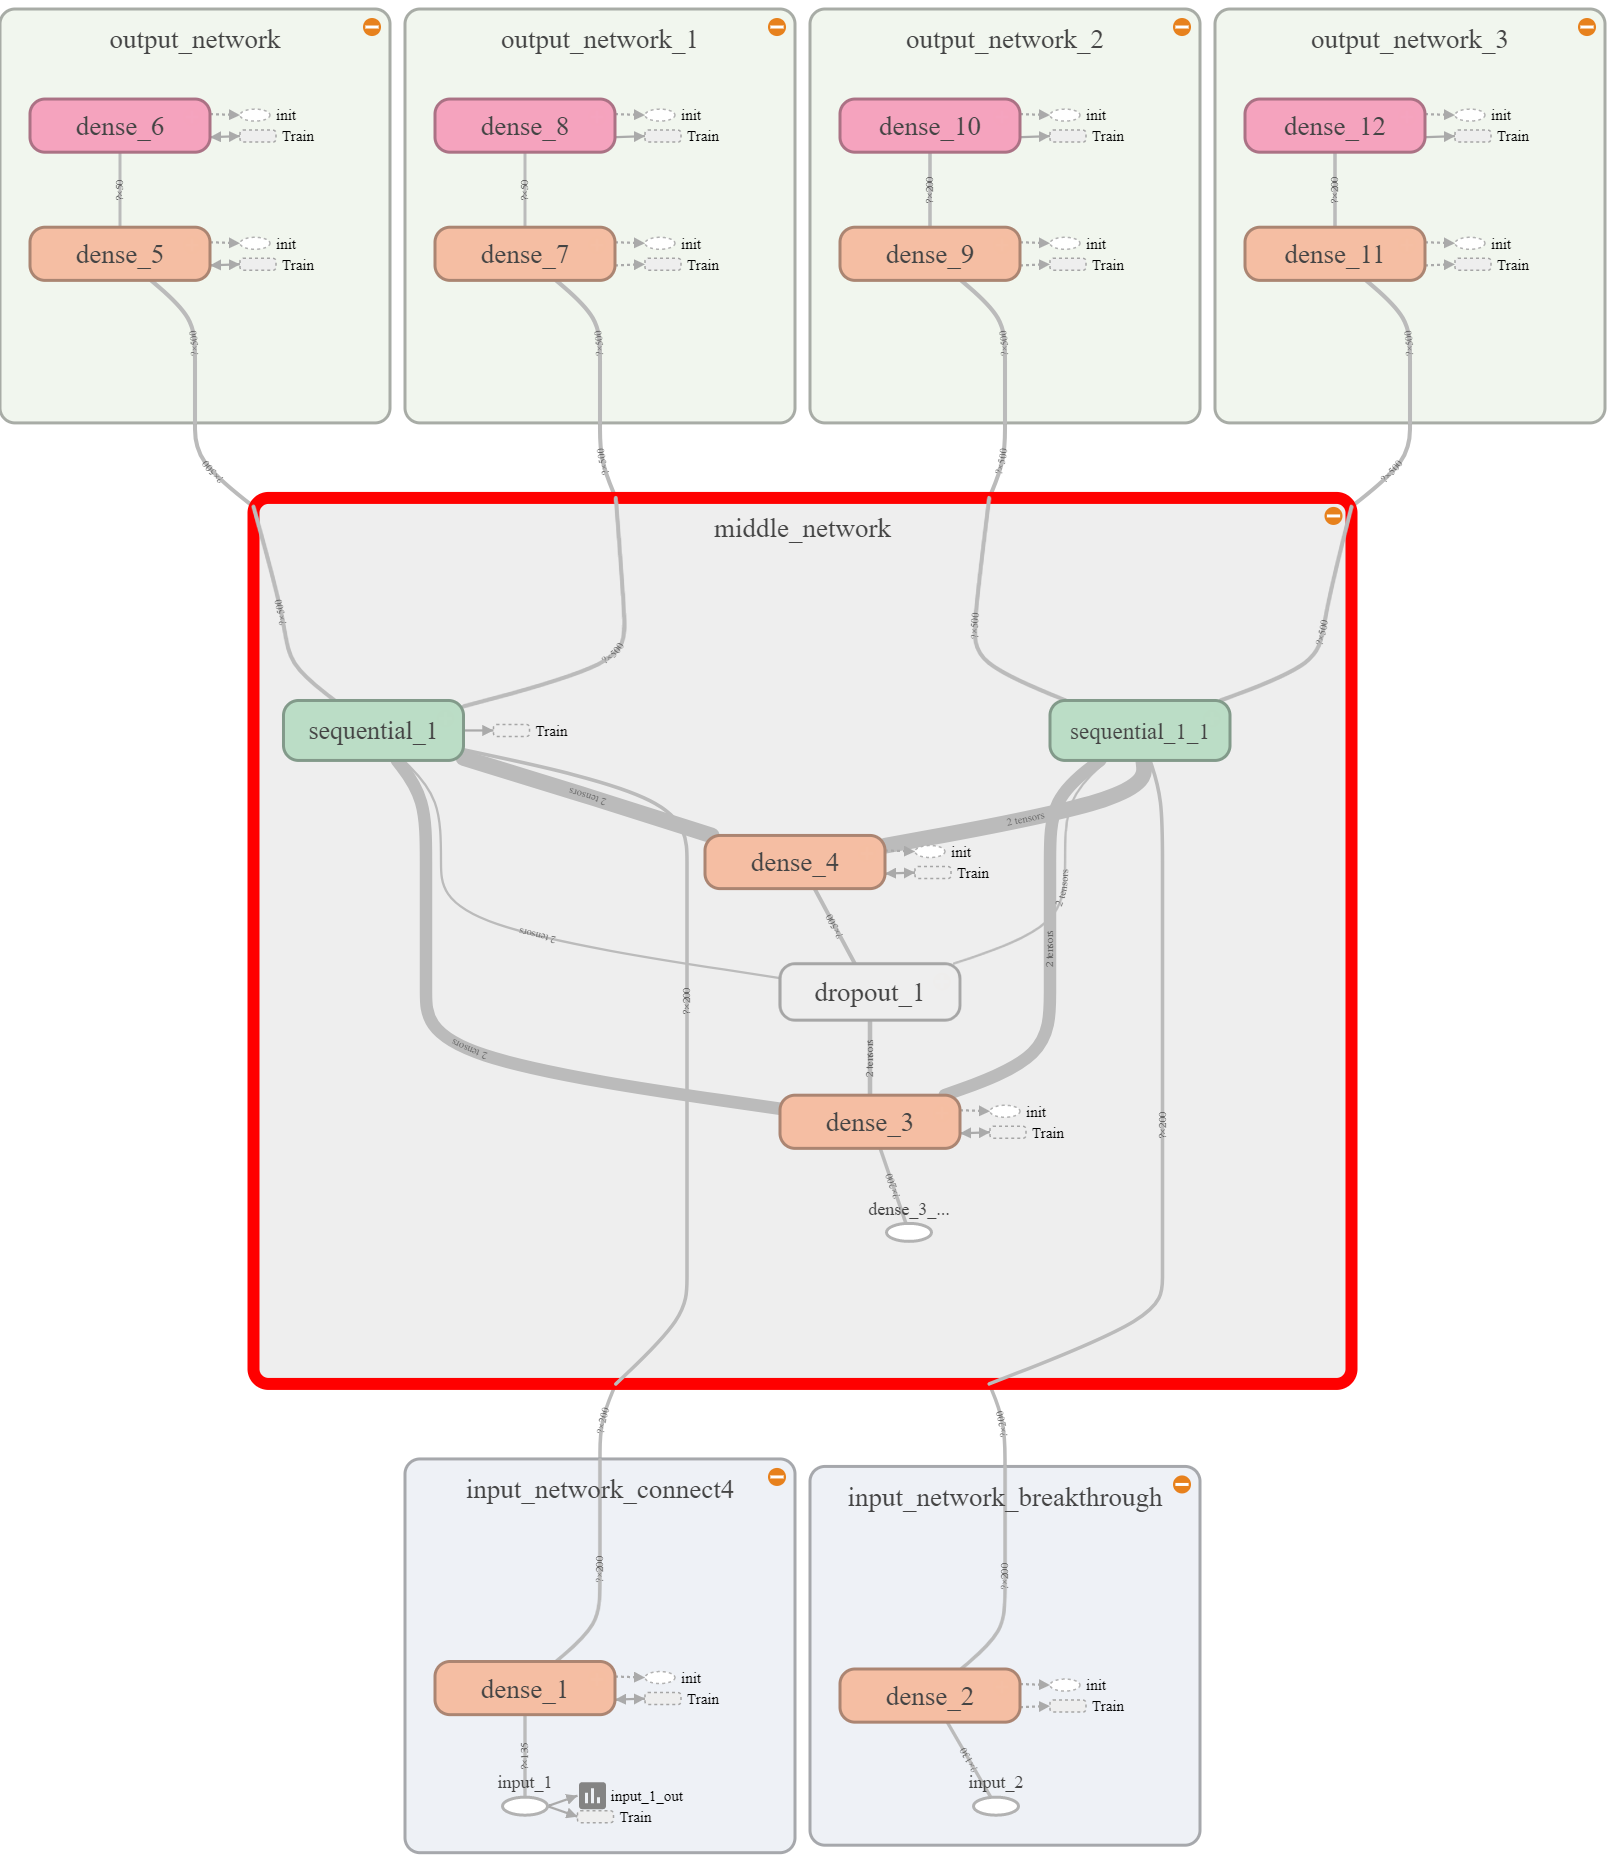
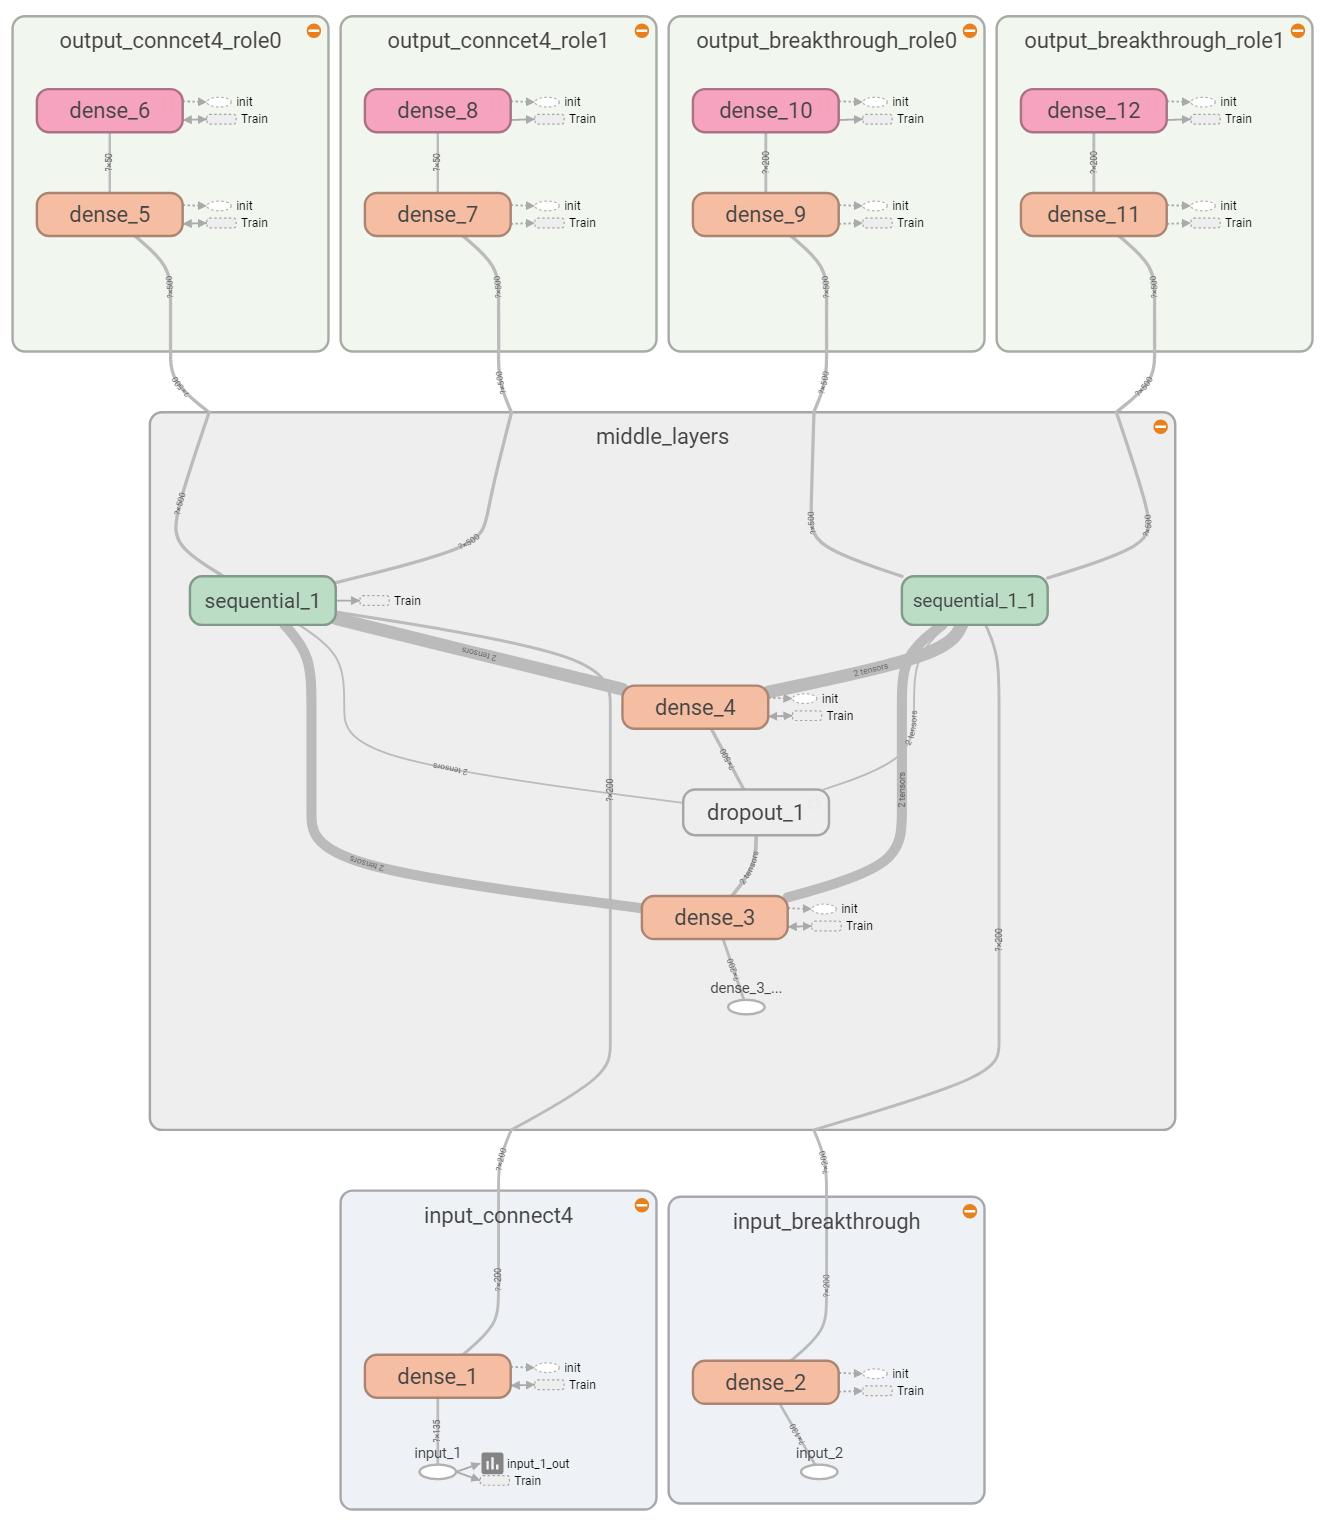
Improved the readabilty of tensorboard graph output

Changed region(s): [[0.0, 0.0, 1.0, 1.0]]

diff --git a/multygame.py b/multygame.py
@@ -43,47 +43,47 @@ def read_data(file_name, state_size, num_actions):
 #                           Create Model                             
 # -------------------------------------------------------------------
 
-with tf.name_scope("input_network_connect4"):
+with tf.name_scope("input_connect4"):
     in_con4 = Input(shape=(135,))
     con4 = Dense(200, activation='relu')(in_con4)
-    
-#with tf.name_scope("input_network_chinses_checkers_6"):
-#    in_cc6 = Input(shape=(253,))
-#    cc6 = Dense(200, activation='relu')(in_cc6)
 
-with tf.name_scope("input_network_breakthrough"):
+with tf.name_scope("input_network_chinses_checkers_6"):
+    in_cc6 = Input(shape=(253,))
+    cc6 = Dense(200, activation='relu')(in_cc6)
+
+with tf.name_scope("input_breakthrough"):
     in_bt = Input(shape=(130,))
     bt = Dense(200, activation='relu')(in_bt)
 
-with tf.name_scope("middle_network"):
+with tf.name_scope("middle_layers"):
     middle = Sequential([
         Dense(500, activation='relu', input_shape=(200,)),
         Dropout(0.5),
         Dense(500, activation='relu')
     ])
     con4_mid = middle(con4)
-    #cc6_mid = middle(cc6)
+    cc6_mid = middle(cc6)
     bt_mid = middle(bt)
 
 con4_models = []
 for i in range(2):
-    with tf.name_scope("output_network"):
+    with tf.name_scope("output_conncet4_role{0}".format(i)):
         out = Dense(50, activation='relu')(con4_mid)
         out = Dense(8, activation='softmax')(out)
         model = (Model(inputs=in_con4, outputs=out), "connect4", i)
         con4_models.append(model)
 
 cc6_models = []
-#for i in range(6):
-#    with tf.name_scope("output_network"):
-#        out = Dense(200, activation='relu')(cc6_mid)
-#        out = Dense(90, activation='softmax')(out)
-#        model = (Model(inputs=in_cc6, outputs=out), "chinese_checkers_6", i)
-#        cc6_models.append(model)
+for i in range(6):
+    with tf.name_scope("output_chinese_checkers_role{0}".format(i)):
+        out = Dense(200, activation='relu')(cc6_mid)
+        out = Dense(90, activation='softmax')(out)
+        model = (Model(inputs=in_cc6, outputs=out), "chinese_checkers_6", i)
+        cc6_models.append(model)
 
 bt_models = []
 for i in range(2):
-    with tf.name_scope("output_network"):
+    with tf.name_scope("output_breakthrough_role{0}".format(i)):
         out = Dense(200, activation='relu')(bt_mid)
         out = Dense(155, activation='softmax')(out)
         model = (Model(inputs=in_bt, outputs=out), "breakthrough", i)

diff --git a/ReadMe.md b/ReadMe.md
@@ -147,13 +147,12 @@ Snapshot from tensorboard of the model:
 This model the most advanced model 
 
 ```py
-with tf.name_scope("input_network"):
+with tf.name_scope("input_network_connect4"):
     in_con4 = Input(shape=(135,))
-    in_cc6 = Input(shape=(253,))
-    in_bt = Input(shape=(130,))
-
     con4 = Dense(200, activation='relu')(in_con4)
-    cc6 = Dense(200, activation='relu')(in_cc6)
+
+with tf.name_scope("input_network_breakthrough"):
+    in_bt = Input(shape=(130,))
     bt = Dense(200, activation='relu')(in_bt)
 
 with tf.name_scope("middle_network"):
@@ -163,28 +162,19 @@ with tf.name_scope("middle_network"):
         Dense(500, activation='relu')
     ])
     con4_mid = middle(con4)
-    cc6_mid = middle(cc6)
     bt_mid = middle(bt)
 
 con4_models = []
 for i in range(2):
-    with tf.name_scope("output_network"):
+    with tf.name_scope("output_network_conncet4_role{0}".format(i)):
         out = Dense(50, activation='relu')(con4_mid)
         out = Dense(8, activation='softmax')(out)
         model = (Model(inputs=in_con4, outputs=out), "connect4", i)
         con4_models.append(model)
 
-cc6_models = []
-for i in range(6):
-    with tf.name_scope("output_network"):
-        out = Dense(200, activation='relu')(cc6_mid)
-        out = Dense(90, activation='softmax')(out)
-        model = (Model(inputs=in_cc6, outputs=out), "chinese_checkers_6", i)
-        cc6_models.append(model)
-
 bt_models = []
 for i in range(2):
-    with tf.name_scope("output_network"):
+    with tf.name_scope("output_network_breakthrough_role{0}".format(i)):
         out = Dense(200, activation='relu')(bt_mid)
         out = Dense(155, activation='softmax')(out)
         model = (Model(inputs=in_bt, outputs=out), "breakthrough", i)
